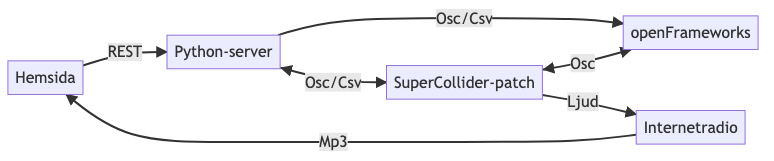
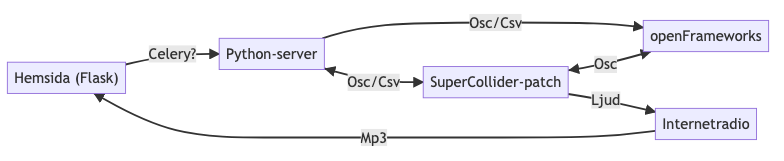
uppdaterad flowchart

Changed region(s): [[0.155, 0.0621, 0.9922, 0.9317], [0.0, 0.2795, 0.4341, 0.7143], [0.124, 0.6832, 0.186, 0.8075]]

diff --git a/kod/readme.md b/kod/readme.md
@@ -3,7 +3,7 @@
 # Struktur av system
 ![Flödesdiagram av system](../media/flowchart.png)
 
-- **Hemsida** (interaktion med användarna -- dvs. uppladdning av mätdata som Excel-fil -- *och* spelar upp musiken) 
+- **Hemsida** (interaktion med användarna -- dvs. uppladdning av mätdata som Excel-fil -- *och* spelar upp musiken; uppbyggd av **Flask** och kopplas på så sätt ihop med Python-server) 
 - **Python-server** (tar emot användar-data, tolkar data och servrar) 
 - **SuperCollider** (genererar musik) 
 * **openFrameworks** (visualisering...)
